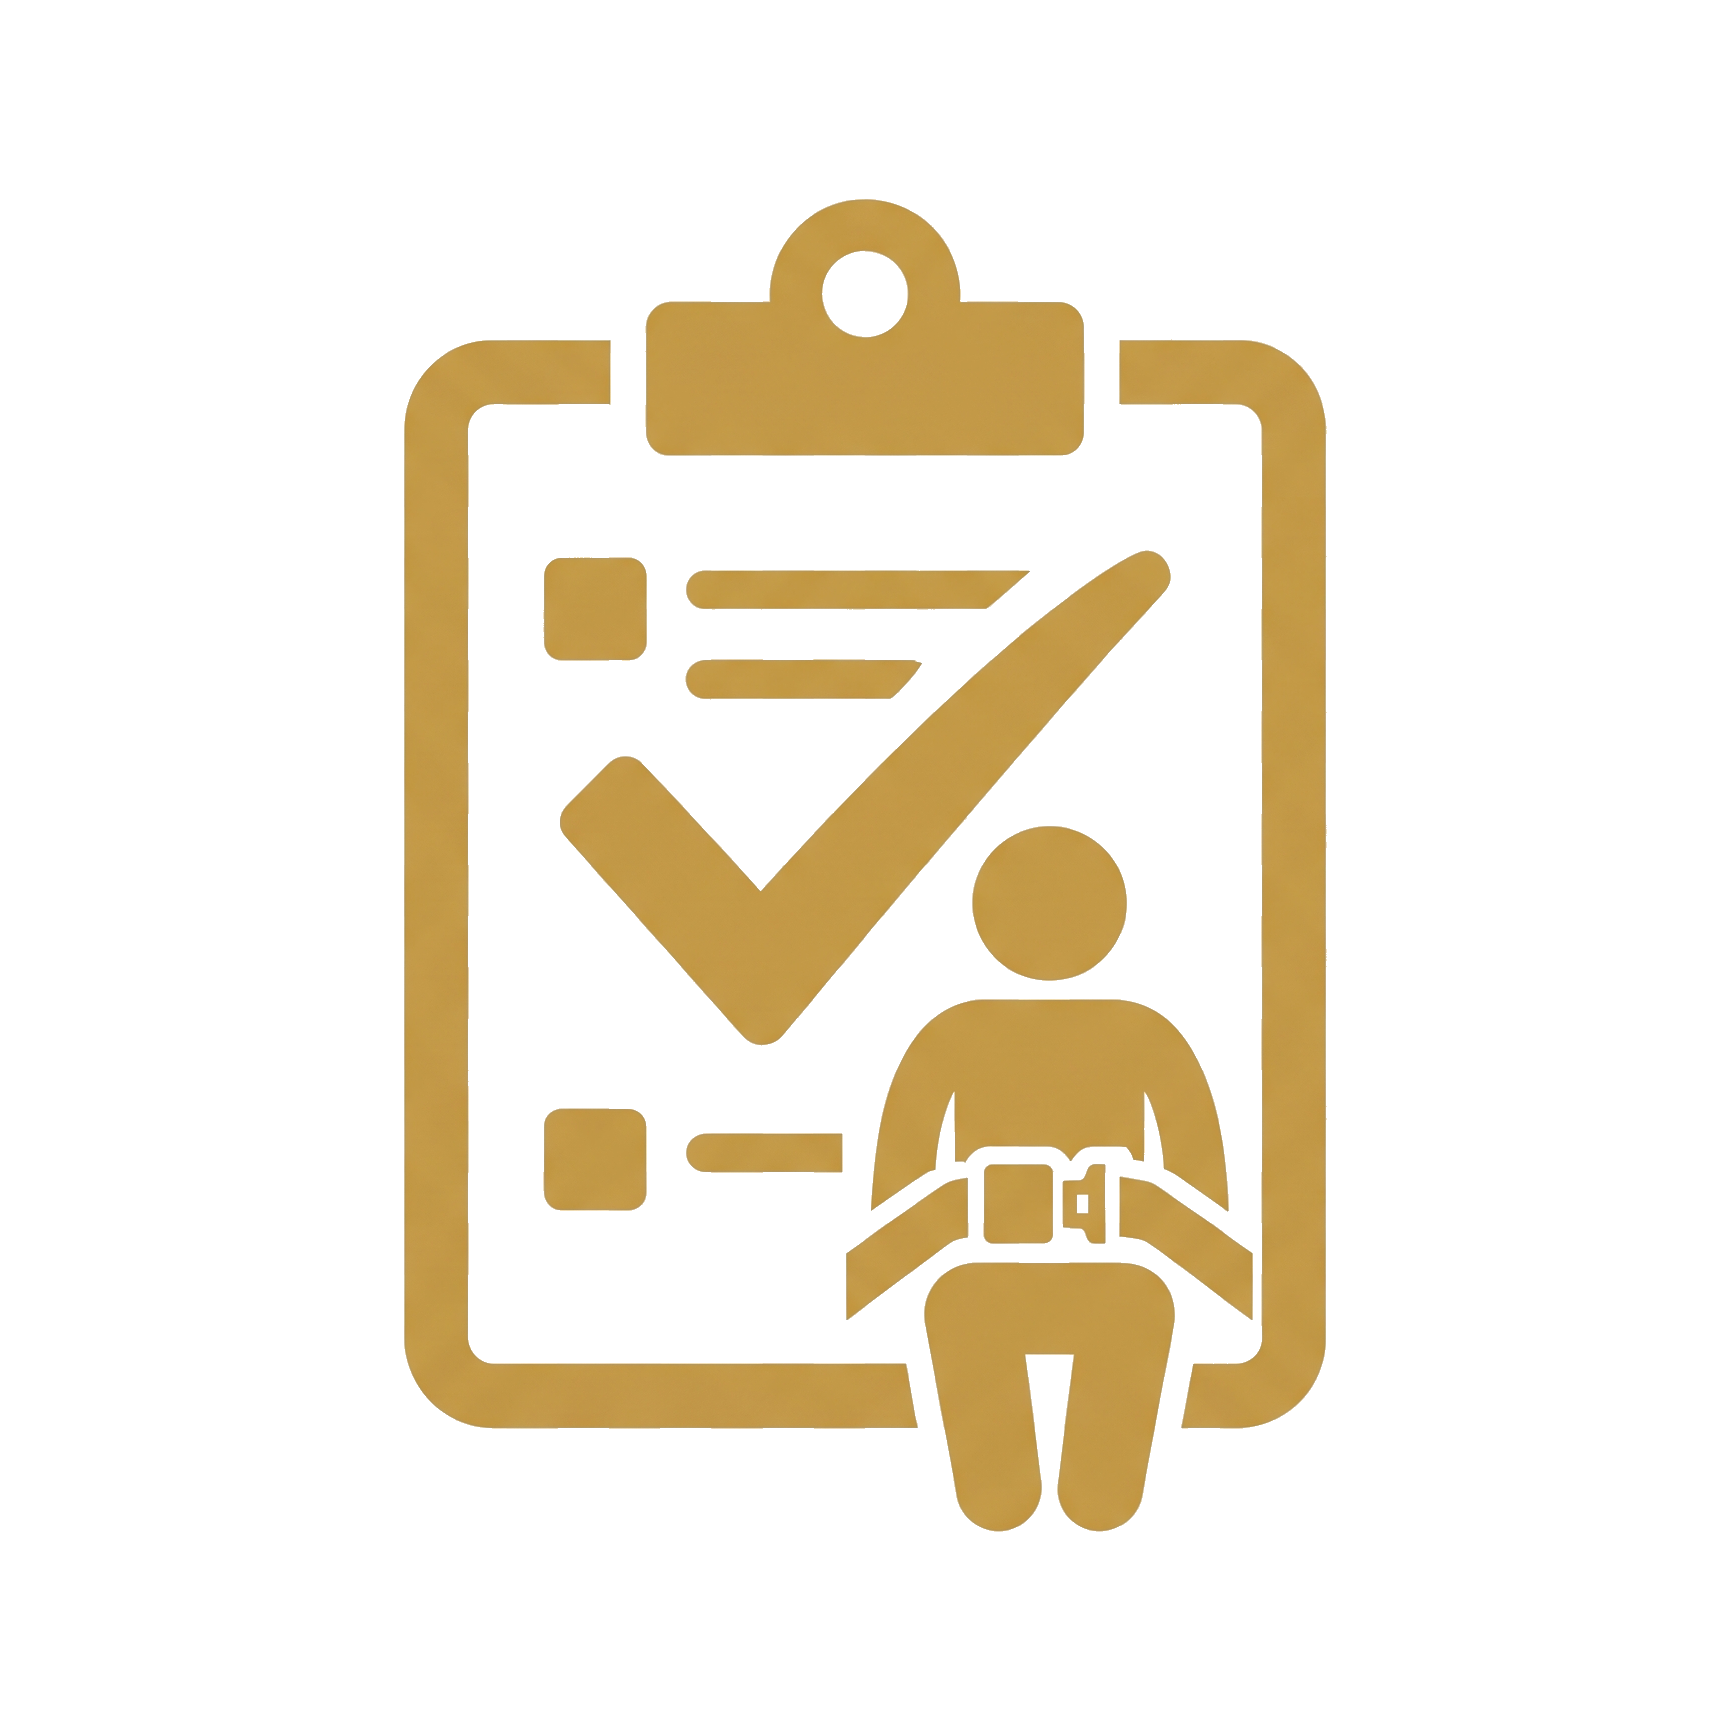
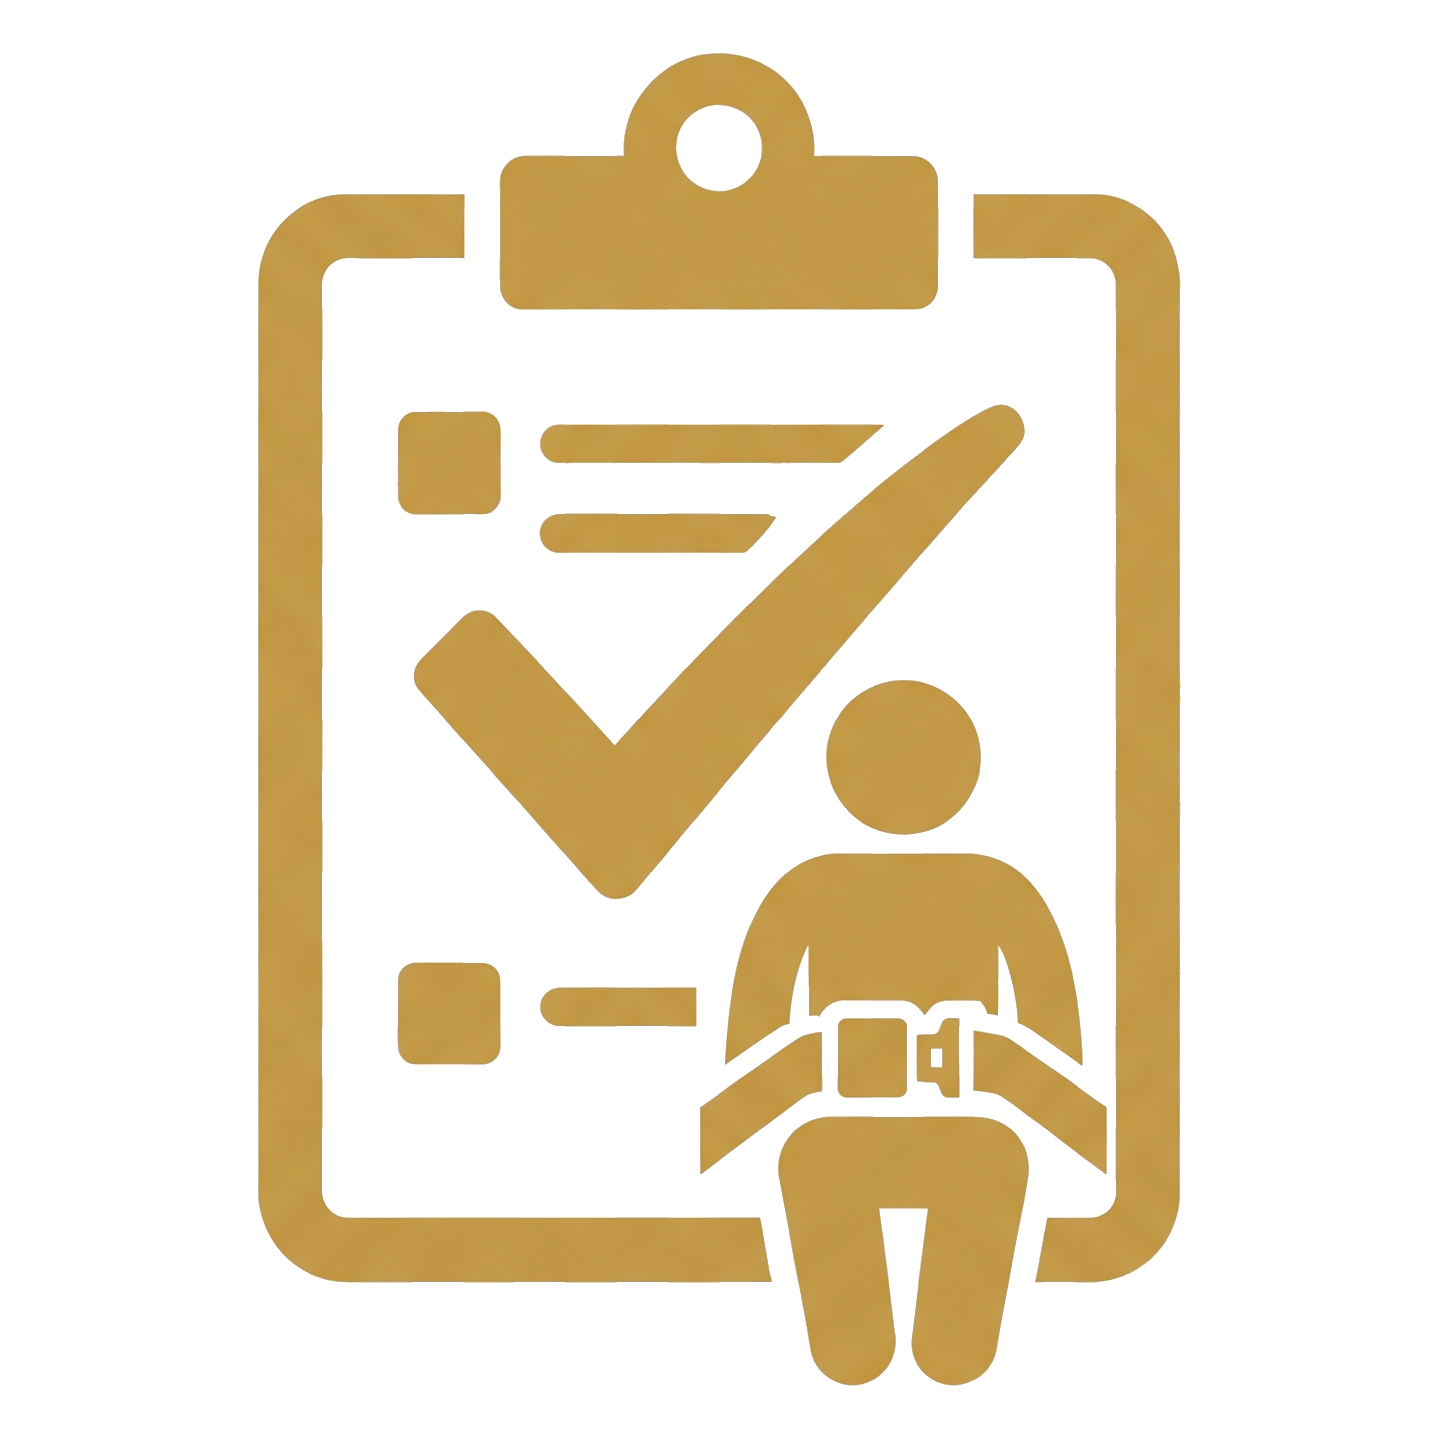
v1.31

Changed region(s): [[0.1529, 0.0306, 0.8256, 0.9785], [0.4892, 0.5198, 0.5198, 0.5504], [0.4587, 0.4587, 0.4892, 0.4892]]

diff --git a/index.html b/index.html
@@ -135,7 +135,7 @@ h1{
   overflow:hidden;
 }
 .icon img{width:100%;height:100%;object-fit:cover}
-.icon img.contain{object-fit:contain;padding:6px}
+.icon img.contain{object-fit:contain;padding:2px}
 .icon .glyph{font-size:1.45rem}
 .tag{
   font-family:'IBM Plex Mono',monospace;
@@ -220,7 +220,7 @@ footer a{color:var(--gold-deep);text-decoration:none}
   <p class="sec-label second" id="externalSection">External links</p>
   <main class="grid external" id="grid-ext"></main>
 
-  <footer>v1.30</footer>
+  <footer>v1.31</footer>
 </div>
 
 <script>
@@ -267,7 +267,7 @@ const OWN = [
     en:"Pre-flight passenger briefing",
     desc:"צ'קליסט לתדרוך נוסע לפני טיסה - בטיחות, תקשורת ונוחות.",
     url:"https://eligrt.github.io/AirCheck/passenger-briefing.html",
-    icon:"https://eligrt.github.io/briefing_icon.png", glyph:"📋", tag:"BRIEF", fit:"contain"
+    icon:"https://eligrt.github.io/briefing_icon.png", glyph:"📋", tag:"PAX", fit:"contain"
   }
 ];
 
